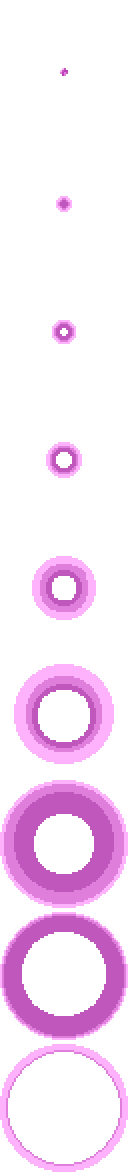
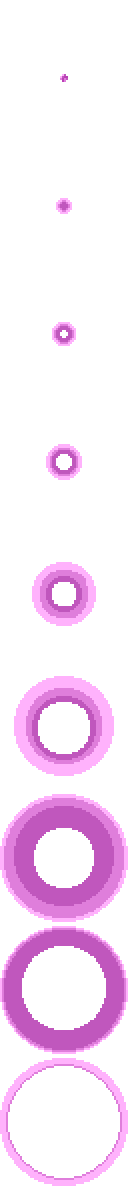
Added more visually appealing Charm Pulse

diff --git a/Content/Items/Weapons/Necronomicons/BookOfFreyja/BookOfFreyja.cs b/Content/Items/Weapons/Necronomicons/BookOfFreyja/BookOfFreyja.cs
@@ -182,7 +182,7 @@ namespace WraithMod.Content.Items.Weapons.Necronomicons.BookOfFreyja
                     yellow.noGravity = true;
                 }
                 SoundEngine.PlaySound(SoundID.MaxMana);
-                Projectile.NewProjectile(Projectile.GetSource_FromThis(), player.position, Vector2.Zero, ModContent.ProjectileType<CharmPulse>(), Projectile.damage, Projectile.knockBack, Projectile.owner);
+                Projectile.NewProjectile(Projectile.GetSource_FromThis(), player.Center, Vector2.Zero, ModContent.ProjectileType<CharmPulse>(), Projectile.damage, Projectile.knockBack, Projectile.owner);
                 Timer = 0;
             }
         }
@@ -257,16 +257,24 @@ namespace WraithMod.Content.Items.Weapons.Necronomicons.BookOfFreyja
             Projectile.tileCollide = false;
             Projectile.Size = new Vector2(128, 128);
             Projectile.penetrate = -1;
+            Projectile.scale = 2f;
+            Projectile.alpha = 125;
             Projectile.aiStyle = 0;
+        }
+        public override void OnSpawn(IEntitySource source)
+        {
+            Projectile.NewProjectile(source, Projectile.Center, Vector2.Zero, ModContent.ProjectileType<CharmPulseGlow>(), 0, 0, Projectile.owner);
         }
         public override void AI()
         {
+            Player player = Main.player[Projectile.owner];
+            Projectile.Center = player.Center;
             Timer++;
-            if (Timer >= 108)
+            if (Timer >= 70)
             {
                 Projectile.Kill();
             }
-            if (++Projectile.frameCounter >= 12)
+            if (++Projectile.frameCounter >= 8)
             {
                 Projectile.frameCounter = 0;
                 // Or more compactly Projectile.frame = ++Projectile.frame % Main.projFrames[Projectile.type];
@@ -276,8 +284,7 @@ namespace WraithMod.Content.Items.Weapons.Necronomicons.BookOfFreyja
         }
 
         public override bool PreDraw(ref Color lightColor)
-        {
-            // SpriteEffects helps to flip texture horizontally and vertically
+        { 
             SpriteEffects spriteEffects = SpriteEffects.None;
             if (Projectile.spriteDirection == -1)
                 spriteEffects = SpriteEffects.FlipHorizontally;
@@ -300,7 +307,7 @@ namespace WraithMod.Content.Items.Weapons.Necronomicons.BookOfFreyja
 
             // If image isn't centered or symmetrical you can specify origin of the sprite
             // (0,0) for the upper-left corner
-            float offsetX = 20f;
+            float offsetX = 64f;
             origin.X = Projectile.spriteDirection == 1 ? sourceRectangle.Width - offsetX : offsetX;
 
             // If sprite is vertical
@@ -313,6 +320,92 @@ namespace WraithMod.Content.Items.Weapons.Necronomicons.BookOfFreyja
             Main.EntitySpriteDraw(texture,
                 Projectile.Center - Main.screenPosition + new Vector2(0f, Projectile.gfxOffY),
                 sourceRectangle, drawColor, Projectile.rotation, origin, Projectile.scale, spriteEffects, 0);
+
+            // It's important to return false, otherwise we also draw the original texture.
+            return false;
+        }
+    }
+    public class CharmPulseGlow : ModProjectile
+    {
+        public float Timer
+        {
+            get => Projectile.ai[0];
+            set => Projectile.ai[0] = value;
+        }
+        public override void SetStaticDefaults()
+        {
+            // Total count animation frames
+            Main.projFrames[Projectile.type] = 9;
+        }
+        public override void SetDefaults()
+        {
+            Projectile.friendly = false;
+            Projectile.tileCollide = false;
+            Projectile.Size = new Vector2(128, 128);
+            Projectile.penetrate = -1;
+            Projectile.scale = 2.15f;
+            Projectile.alpha = 125;
+            Projectile.aiStyle = 0;
+        }
+        public override void AI()
+        {
+            Player player = Main.player[Projectile.owner];
+            Projectile.Center = player.Center;
+            Timer++;
+            if (Timer >= 70)
+            {
+                Projectile.Kill();
+            }
+            if (++Projectile.frameCounter >= 8)
+            {
+                Projectile.frameCounter = 0;
+                // Or more compactly Projectile.frame = ++Projectile.frame % Main.projFrames[Projectile.type];
+                if (++Projectile.frame >= Main.projFrames[Projectile.type])
+                    Projectile.frame = 0;
+            }
+        }
+
+        public override bool PreDraw(ref Color lightColor)
+        {
[1 lines of base64/hex data omitted]
+            Color color = Color.Lerp(Color.Pink, Color.Magenta, 20f);
+            Color color2 = Color.Lerp(Color.White, color, 20f);
+            var bloom = color2;
+            bloom.A = 0;
+            SpriteEffects spriteEffects = SpriteEffects.None;
+            if (Projectile.spriteDirection == -1)
+                spriteEffects = SpriteEffects.FlipHorizontally;
+
+            // Getting texture of projectile
+            Texture2D texture = (Texture2D)ModContent.Request<Texture2D>(Texture);
+
+            // Calculating frameHeight and current Y pos dependence of frame
+            // If texture without animation frameHeight is always texture.Height and startY is always 0
+            int frameHeight = texture.Height / Main.projFrames[Projectile.type];
+            int startY = frameHeight * Projectile.frame;
+
+            // Get this frame on texture
+            Rectangle sourceRectangle = new Rectangle(0, startY, texture.Width, frameHeight);
+
+            // Alternatively, you can skip defining frameHeight and startY and use this:
+            // Rectangle sourceRectangle = texture.Frame(1, Main.projFrames[Projectile.type], frameY: Projectile.frame);
+
+            Vector2 origin = sourceRectangle.Size() / 2f;
+
+            // If image isn't centered or symmetrical you can specify origin of the sprite
+            // (0,0) for the upper-left corner
+            float offsetX = 96f;
+            origin.X = Projectile.spriteDirection == 1 ? sourceRectangle.Width - offsetX : offsetX;
+
+            // If sprite is vertical
+            // float offsetY = 20f;
+            // origin.Y = (float)(Projectile.spriteDirection == 1 ? sourceRectangle.Height - offsetY : offsetY);
+
+
+            // Applying lighting and draw current frame
+            Main.EntitySpriteDraw(bloomTex.Value,
+                Projectile.Center - Main.screenPosition,
+                sourceRectangle, bloom, Projectile.rotation, origin, Projectile.scale, spriteEffects, 0);
 
             // It's important to return false, otherwise we also draw the original texture.
             return false;

diff --git a/Content/Items/Weapons/Necronomicons/BookOfSif/BookOfSif.cs b/Content/Items/Weapons/Necronomicons/BookOfSif/BookOfSif.cs
@@ -777,5 +777,9 @@ namespace WraithMod.Content.Items.Weapons.Necronomicons.BookOfSif
         {
             Dead = true;
         }
+        public override void OnRespawn()
+        {
+            Dead = false;
+        }
     }
 }
